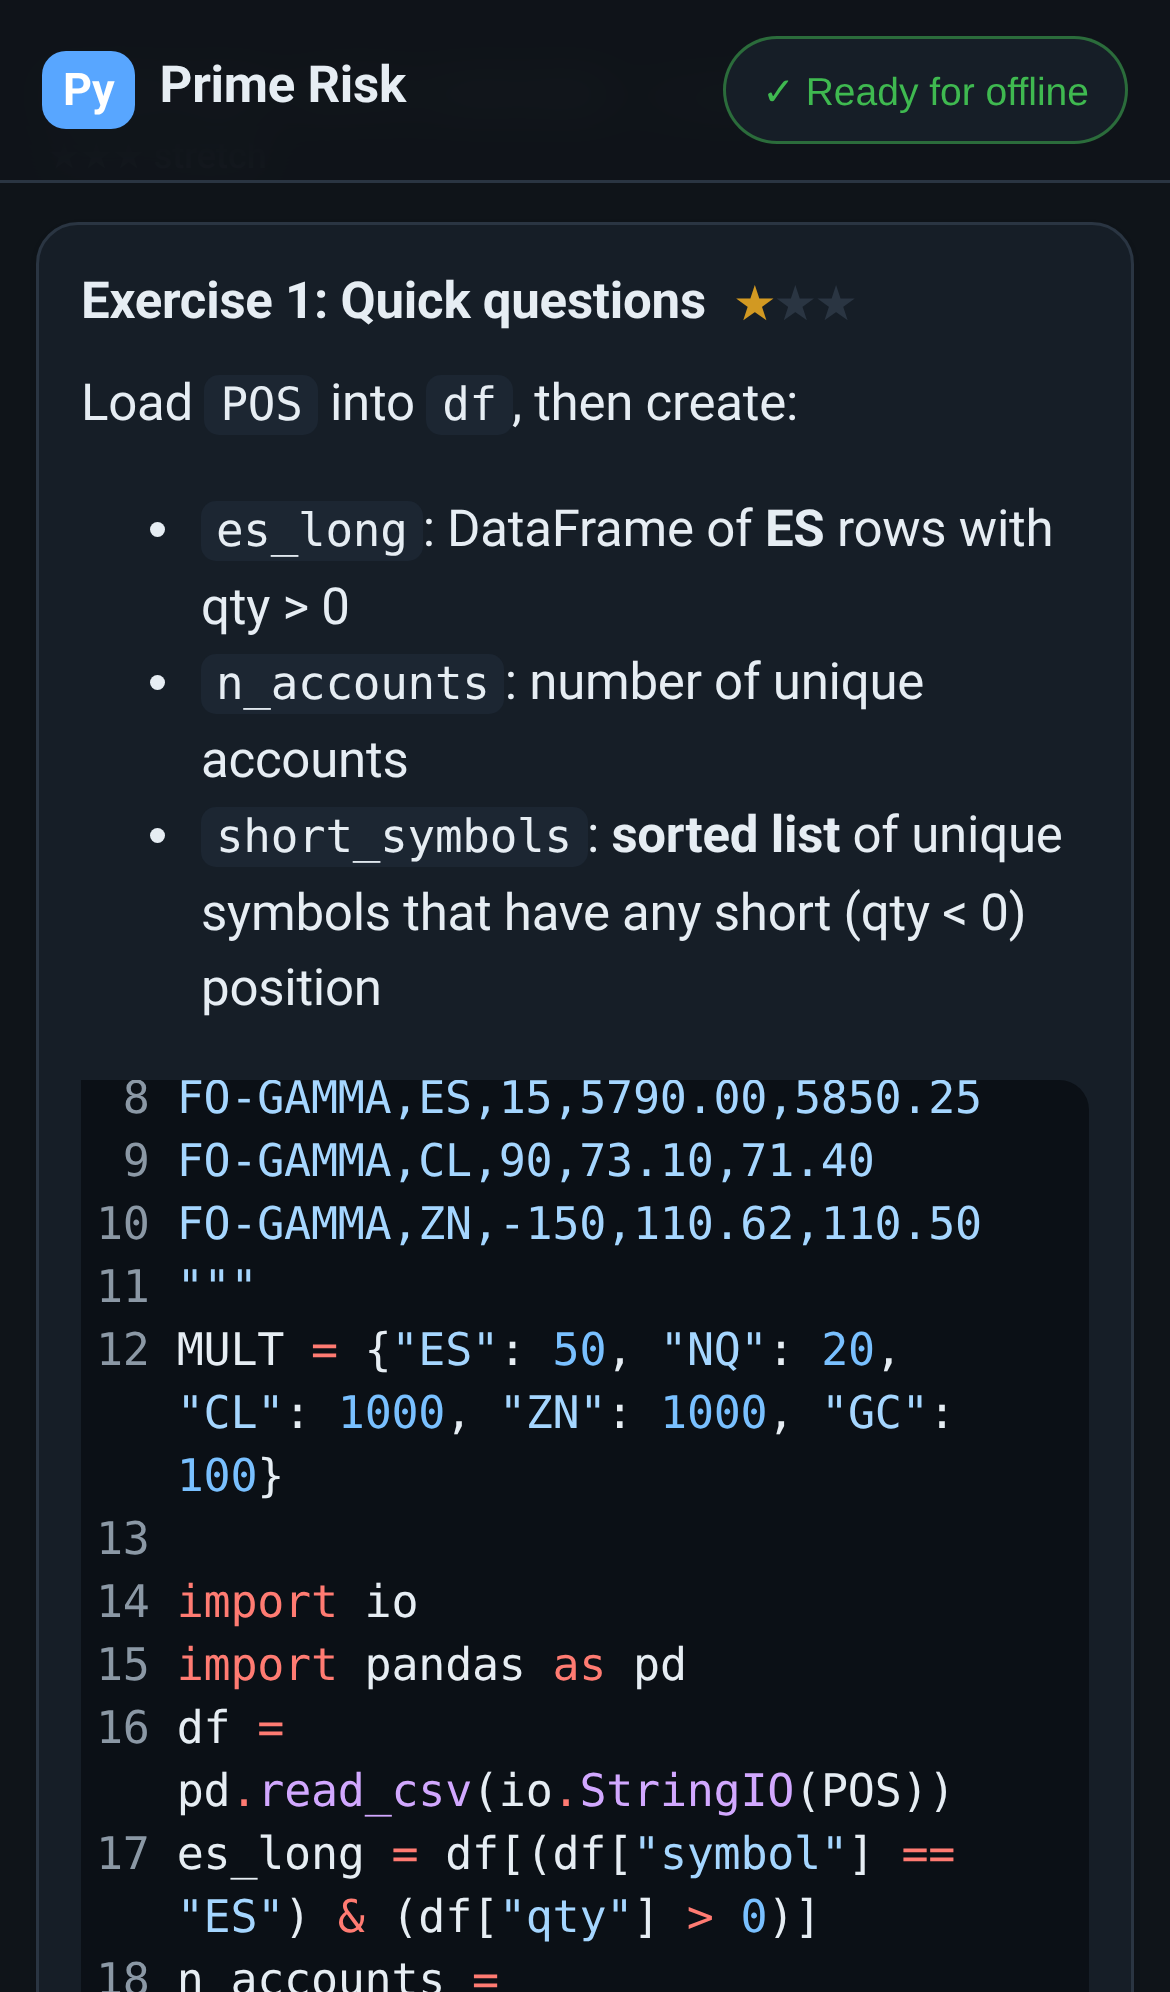
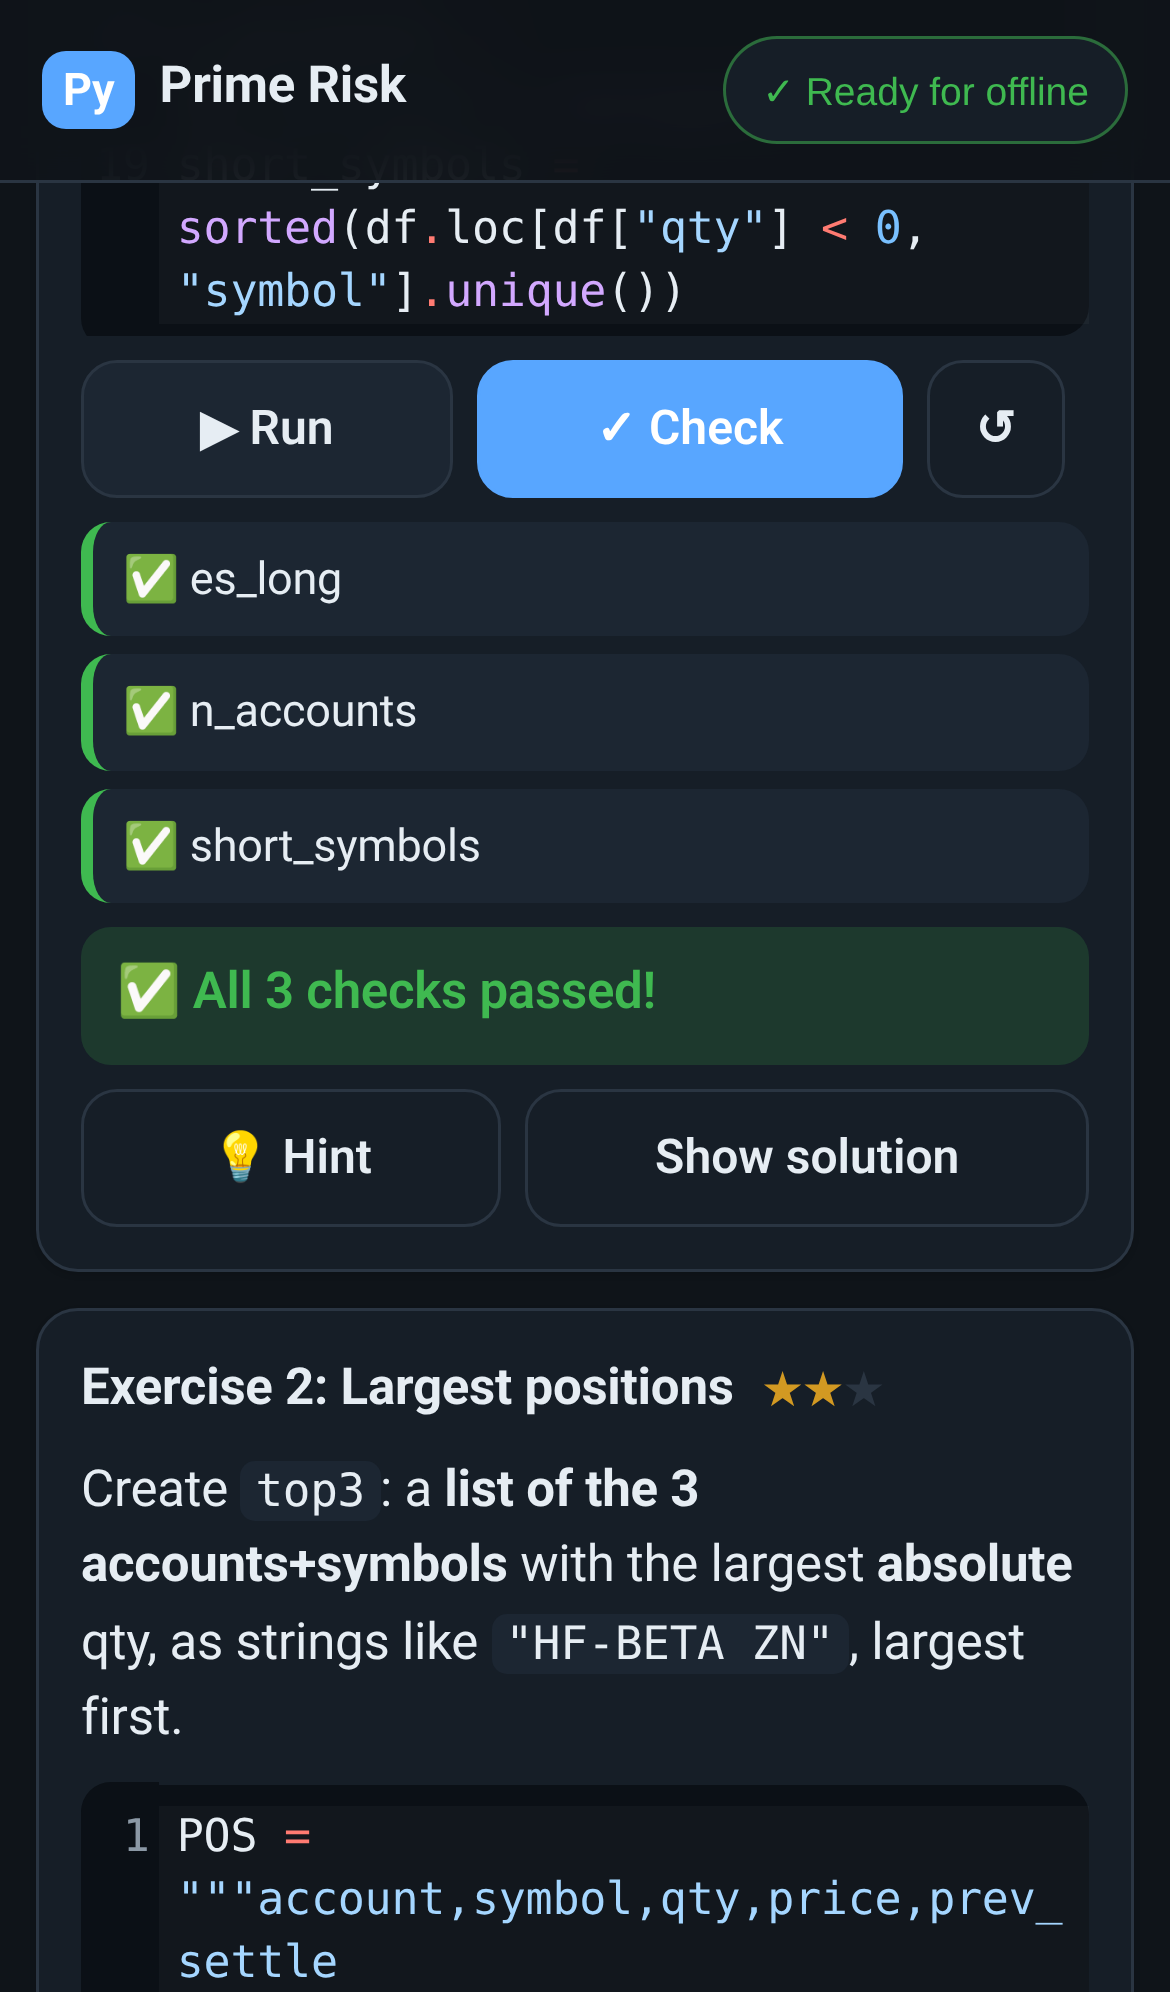
Screenshots + verify tweak

diff --git a/scripts/verify2.py b/scripts/verify2.py
@@ -60,7 +60,7 @@ with sync_playwright() as p:
     pg.wait_for_function("() => document.querySelector('.card.exercise .banner') && document.querySelector('.card.exercise .banner').textContent.includes('passed!')", timeout=90000)
     log("[OFFLINE] solution check:", card.locator(".banner").inner_text(), "| checks:", card.locator(".results li.pass").count(), "pass /", card.locator(".results li").count())
     log("[OFFLINE] lesson scrollWidth", pg.evaluate("document.documentElement.scrollWidth"))
-    card.locator(".banner").scroll_into_view_if_needed(); pg.evaluate("window.scrollBy(0, -360)")
+    card.locator(".banner").evaluate("e => e.scrollIntoView({block: 'center'})")
     shot(pg, "03-exercise-checked-offline")
     pg.evaluate("window.scrollTo(0,0)"); shot(pg, "02-lesson-offline")
 
